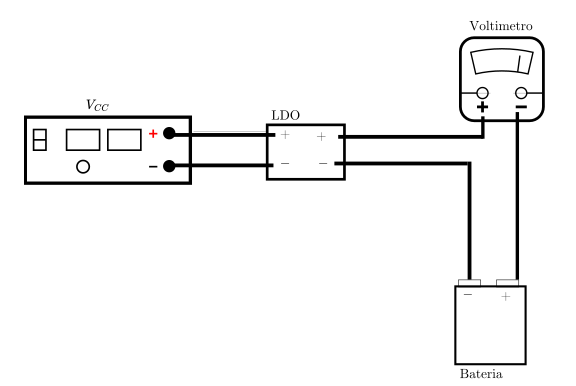
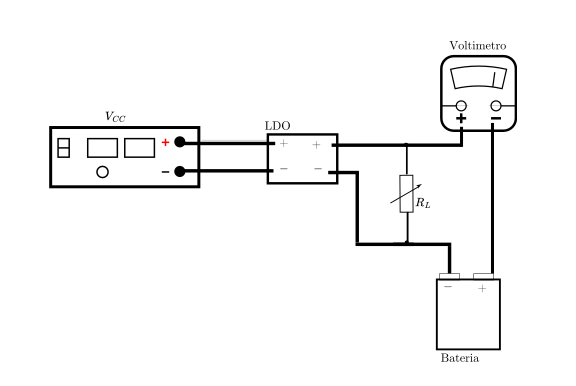
Nueva medicion regulacion de carga

Changed region(s): [[0.0312, 0.0622, 0.9688, 0.9948]]

diff --git a/Checkpoints/Checkpoint 3/Informe CHK 3/informe.tex b/Checkpoints/Checkpoint 3/Informe CHK 3/informe.tex
@@ -368,9 +368,9 @@ citestyle=apa
 	
 	\subsubsection{Regulación de línea}
 	
-	Midiendo las coordenadas de dos puntos de la curva de tensión de salida en función de la tensión de alimentación es posible calcular la regulación de línea. La estabilización de la tensión de salida resulta algo dependiente de la tensión de la fuente de entrada. Debido a esto, el rechazo del rizado de la fuente de entrada será bajo. Se puede observar la interpolación de los puntos medidos en la figura \ref{fig:regulaciondelinea}.
+	Midiendo de la misma forma que en la figura \ref{medicionregcargabanco} las coordenadas de dos puntos de la curva de tensión de salida en función de la tensión de alimentación es posible calcular la regulación de línea. La estabilización de la tensión de salida resulta algo dependiente de la tensión de la fuente de entrada. Debido a esto, el rechazo del rizado de la fuente de entrada será bajo. Se puede observar la interpolación de los puntos medidos en la figura \ref{fig:regulaciondelinea}.
 	
-	Se caracteriza la regulación de linea tomando la variación de la salida respecto a la variación de la fuente para dos puntos. En este caso se utilizaron los puntos en donde la tensión de alimentación es de $5,26 \, V$ y  $16,46 \, V$. Obteniendo los valores de $0,00089 \, \frac{V}{V}$ para las mediciones en multimetro y $ 0,00179\, \frac{V}{V}$.
+	Se caracteriza la regulación de linea tomando la variación de la salida respecto a la variación de la fuente para dos puntos. En este caso se utilizaron los puntos en donde la tensión de alimentación es de $5,03 \, V$ y  $15,94 \, V$. Obteniendo el valor de $0,035 \frac{V}{V}$ que caracteriza la regulación de linea.
 	
 	
 	% Agregar para comparar con la simulación